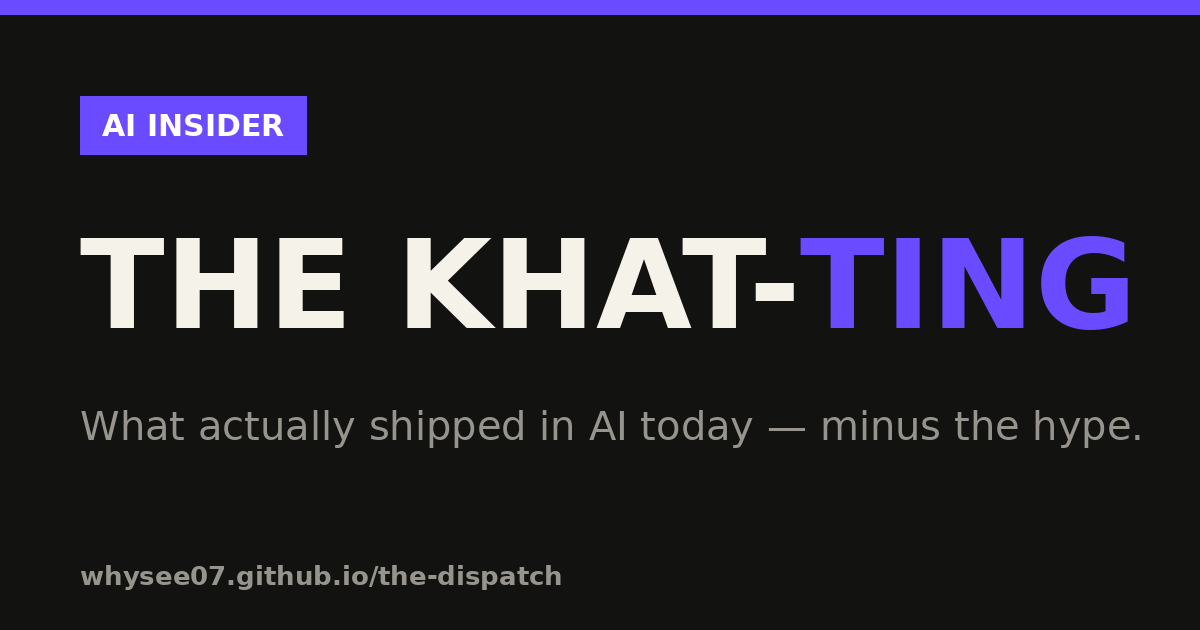
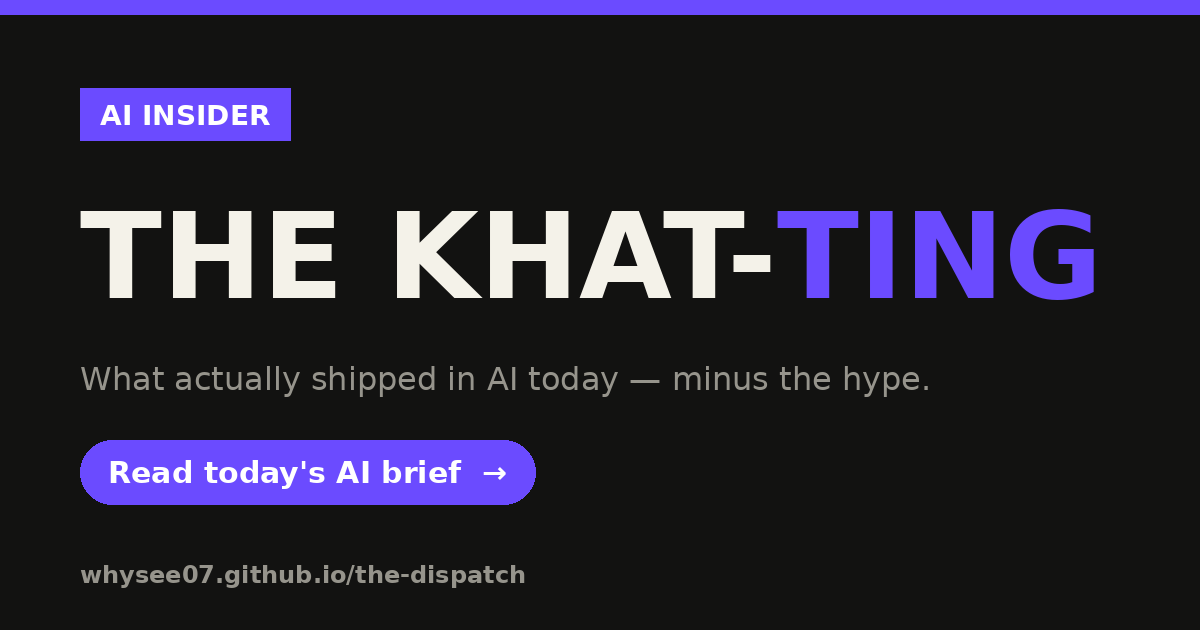
Polish social/SEO: CTA on OG cards, longer homepage title, image alt
- OG images now carry a 'Read today's brief →' call-to-action button
- Homepage <title> lengthened to ~56 chars for better SERP use (issue pages unchanged)
- Add og:image:alt / twitter:image:alt

Claude-Session: https://claude.ai/code/session_01AE3Ts72YANwisw7JFUfPn4

diff --git a/site/build_site.py b/site/build_site.py
@@ -36,10 +36,12 @@ OUT_DIR = ROOT / "site" / "public"
 ASSETS_SRC = ROOT / "site" / "assets"          # committed assets (og images, etc.) copied into output
 
 SITE_TITLE = "The Khat-TING"
+# Longer, keyword-rich <title> for the homepage (SERP sweet spot ~55 chars).
+SITE_TITLE_SEO = "The Khat-TING — Daily AI, Product Marketing & World News"
 SITE_TAGLINE = "A daily intelligence briefing, compiled by Yash and one very caffeinated algorithm."
 # Absolute base URL (no trailing slash). Override with SITE_URL env for a custom domain.
 SITE_URL = os.environ.get("SITE_URL", "https://whysee07.github.io/the-dispatch").rstrip("/")
-SITE_DESC = "A daily three-channel intelligence briefing — Daily Brief, AI Insider, and PMM / PM — auto-compiled every morning."
+SITE_DESC = "A daily three-channel intelligence briefing — Daily Brief, AI Insider, and PMM / PM — auto-compiled every morning. Read today's issue."
 
 # ── FEED CONFIG ──────────────────────────────────────────────────────────────
 # `mode` selects how raw_text is split into sections:
@@ -457,10 +459,12 @@ def page_shell(body: str, active: str, depth: int, script: str,
 <meta property="og:image" content="{og_img}">
 <meta property="og:image:width" content="1200">
 <meta property="og:image:height" content="630">
+<meta property="og:image:alt" content="{title_esc} — read today's issue">
 <meta name="twitter:card" content="summary_large_image">
 <meta name="twitter:title" content="{title_esc}">
 <meta name="twitter:description" content="{desc}">
 <meta name="twitter:image" content="{og_img}">
+<meta name="twitter:image:alt" content="{title_esc} — read today's issue">
 <link rel="alternate" type="application/rss+xml" title="{SITE_TITLE} — Daily Brief" href="{base}feeds/brief.xml">
 <link rel="alternate" type="application/rss+xml" title="{SITE_TITLE} — AI Insider" href="{base}feeds/ai.xml">
 <link rel="alternate" type="application/rss+xml" title="{SITE_TITLE} — PMM / PM" href="{base}feeds/pmm.xml">
@@ -553,7 +557,7 @@ def build_index(feed_issues: dict[str, list[dict]]) -> str:
         first = False
     body = masthead(0) + '\n<main class="wrap">\n' + "\n".join(articles) + "\n</main>\n" + FOOTER
     return page_shell(body, "brief", 0, THEME_SCRIPT + INDEX_SCRIPT,
-                      page_url=SITE_URL + "/", og_type="website")
+                      title=SITE_TITLE_SEO, page_url=SITE_URL + "/", og_type="website")
 
 
 def build_issue_page(feed: dict, issue: dict, issues: list[dict]) -> str:
